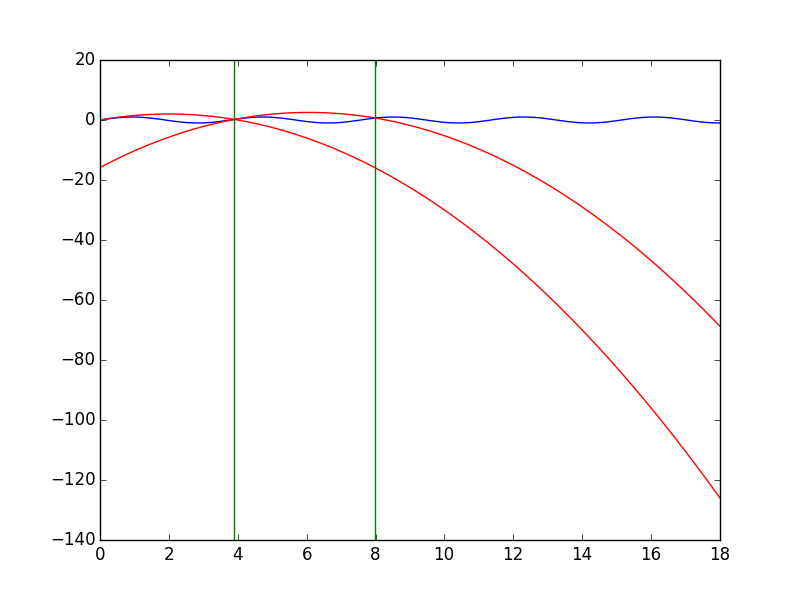
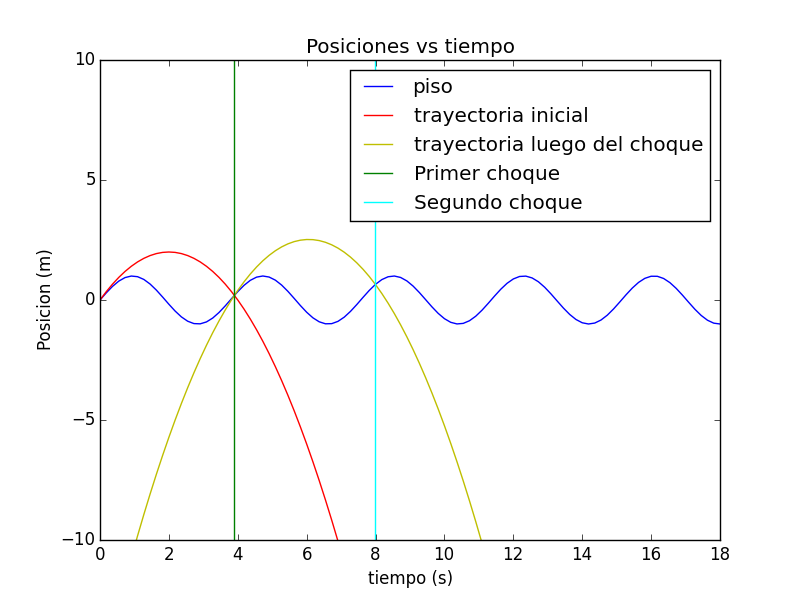
labels y legends

diff --git a/02tarea.py b/02tarea.py
@@ -75,35 +75,48 @@ y_values= [y(i) for i in t_values]
 
 y2= lambda t: yn[1]-(t-tn[1])**2/2. + vn[1]*(t-tn[1])
 y2_values= [y2(i) for i in t_values]
-
+plt.title('Posiciones vs tiempo')
+plt.xlabel('tiempo (s)')
+plt.ylabel('Posicion (m)')
+plt.ylim([-10,10])
 plt.plot(t_values, np.sin(w * t_values), label='piso')
-
-plt.plot(t_values, y_values,color='red', label='pelota')
-plt.plot(t_values, y2_values,color='red', label='pelota')
-plt.axvline(tn[1], color='g')
-plt.axvline(tn[2], color='g')
+plt.plot(t_values, y_values,color='red', label='trayectoria inicial')
+plt.plot(t_values, y2_values,color='y', label='trayectoria luego del choque')
+plt.axvline(tn[1], color='g',label='Primer choque')
+plt.axvline(tn[2], color='cyan',label='Segundo choque')
+plt.legend()
 plt.savefig('choques.png')
 '''----------------------------------------------------------'''
 #estimación Nrelax
 plt.figure(2)
+plt.clf()
 plt.subplot(3, 1, 1)
+plt.title ("$V_n'$ vs n")
+plt.xlabel('numero de choques')
+plt.ylabel('velocidad')
 n=np.linspace(0,200,200)
-plt.plot(n,vn)
+plt.plot(n,vn, label='velocidad para $\omega$=1.66')
+plt.legend()
 
 plt.subplot(3, 1, 2)
+plt.xlabel('numero de choques')
+plt.ylabel('velocidad')
 w=1.67
 Nr=600
 n=np.linspace(0,Nr,Nr)
 (tn,yn,vn)=llenar_choques(0,0,v0,Nr)
-plt.plot(n,vn,color='red')
+plt.plot(n,vn,color='red',label='velocidad para $\omega$=1.67')
+plt.legend()
 
 plt.subplot(3, 1, 3)
+plt.xlabel('numero de choques')
+plt.ylabel('velocidad')
 w=1.672
 Nr=600
 n=np.linspace(0,Nr,Nr)
 (tn,yn,vn)=llenar_choques(0,0,v0,Nr)
-plt.plot(n,vn,color='g')
-
+plt.plot(n,vn,color='g',label='velocidad para $\omega$=1.672')
+plt.legend()
 plt.savefig('Nrelax.png')
 '''--------------------------------------------------------------------------'''
 '''Siga usando η=0.15. Haga un gráfico de v'n
@@ -112,6 +125,7 @@ versus ω con ω entre 1.66 y 1.79 y n =2×Nrelax,..., 2×Nrelax + 49,
  Si algún valor de ω le parece interesante, haga la grilla más fina en ese sector.
 '''
 plt.figure(3)
+plt.clf()
 t0_w=0
 y0_w=0
 v0_w=0
@@ -146,6 +160,9 @@ for w in linspace(1.675,1.79,50):
     v0_w=vn[n-1]
     w_values=np.ones(len(vn_values))*w
     plt.scatter(w_values,vn_values)
-
+plt.xlabel('$\omega$ [rad/s]')
+plt.ylabel("$V_n'$ estable [m/s]")
+plt.title("$V_n'$ vs $\omega$")
+plt.legend()
 plt.savefig('bifurcacion.png')
 show()
